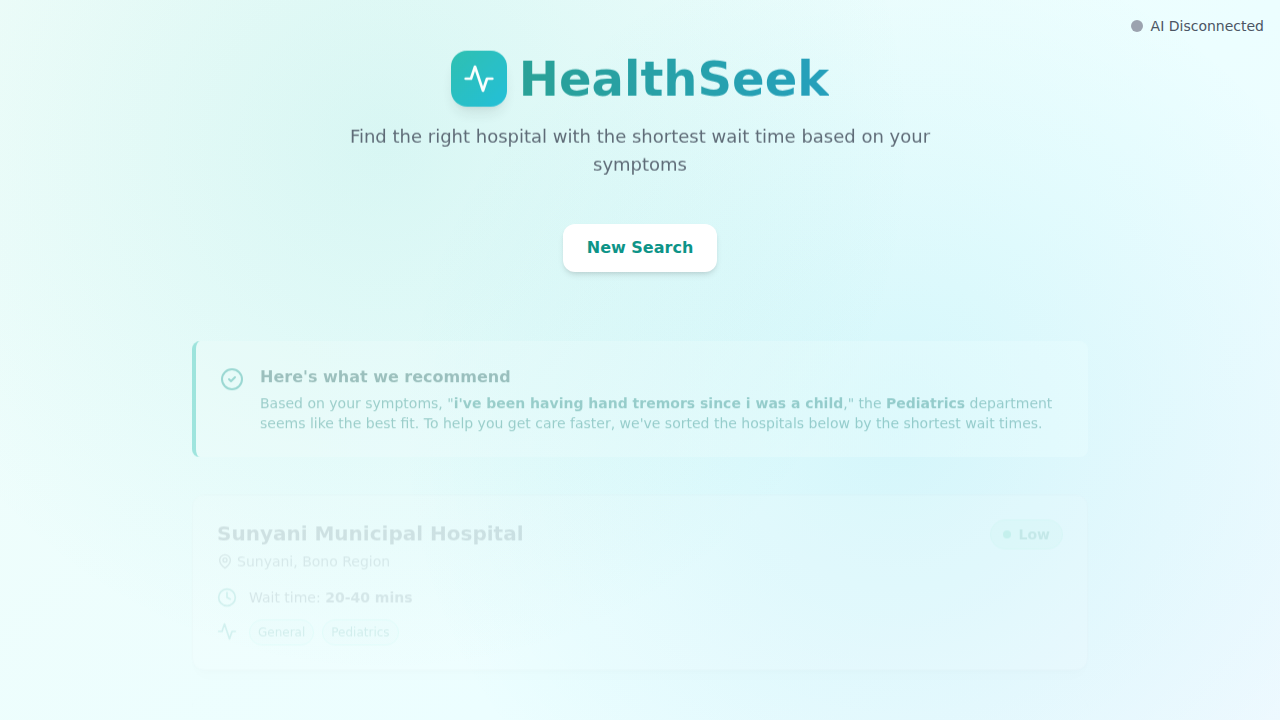
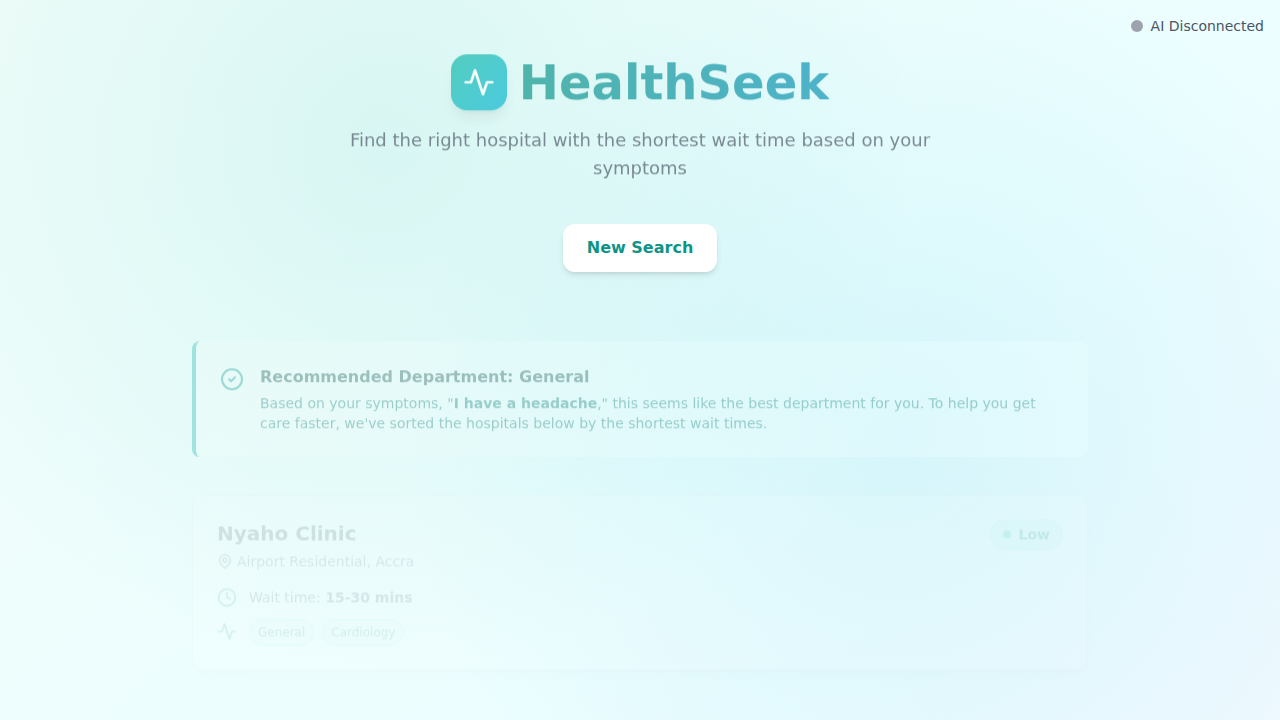
feat: Display recommended department on results page
The recommended department is now prominently displayed on the results page, improving clarity for the user.

diff --git a/src/components/Results.tsx b/src/components/Results.tsx
@@ -31,14 +31,13 @@ export function Results({ department, hospitals, symptomInput, sentence }: Resul
       <div className="bg-gradient-to-r from-teal-50 to-cyan-50 border-l-4 border-teal-500 p-6 rounded-lg flex items-start">
         <CheckCircle2 className="w-6 h-6 text-teal-600 mr-4 flex-shrink-0 mt-0.5" />
         <div>
-          <h3 className="font-semibold text-teal-900 mb-1">Here's what we recommend</h3>
+          <h3 className="font-semibold text-teal-900 mb-1">Recommended Department: {department}</h3>
           <p className="text-teal-700 text-sm">
             {sentence ? (
               <span>{sentence}</span>
             ) : (
               <span>
-                Based on your symptoms, "<strong>{symptomInput}</strong>," the <strong>{department}</strong> department seems like the best fit.
-                To help you get care faster, we've sorted the hospitals below by the shortest wait times.
+                Based on your symptoms, "<strong>{symptomInput}</strong>," this seems like the best department for you. To help you get care faster, we've sorted the hospitals below by the shortest wait times.
               </span>
             )}
           </p>

diff --git a/jules-scratch/verification/verify_results.py b/jules-scratch/verification/verify_results.py
@@ -1,0 +1,25 @@
+
+from playwright.sync_api import sync_playwright, expect
+
+def run_verification():
+    with sync_playwright() as p:
+        browser = p.chromium.launch(headless=True)
+        page = browser.new_page()
+        page.goto("http://localhost:5173")
+
+        # Input symptoms and submit
+        page.get_by_placeholder("Describe your symptoms...").fill("I have a headache")
+        page.get_by_role("button", name="Find Hospital").click()
+
+        # Wait for the results to appear and verify the content
+        expect(page.get_by_text("Recommended Department:")).to_be_visible(timeout=10000)
+        # Use a more specific locator to avoid ambiguity
+        expect(page.get_by_text("Based on your symptoms,")).to_be_visible()
+
+        # Take a screenshot for visual confirmation
+        page.screenshot(path="jules-scratch/verification/verification.png")
+
+        browser.close()
+
+if __name__ == "__main__":
+    run_verification()
